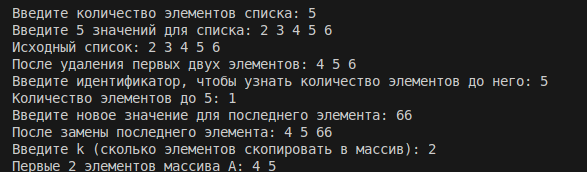
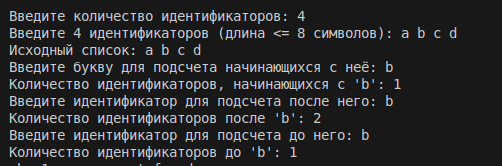
Исправил 1

diff --git a/lab1/main.cpp b/lab1/main.cpp
@@ -1,13 +1,14 @@
 #include <iostream>
+#include <string>
 #ifdef _WIN32
 #include <windows.h>
 #endif
 
 struct Node
 {
-    int id;
+    std::string id;
     Node *next;
-    Node(int val) : id(val), next(nullptr) {}
+    Node(const std::string &val) : id(val), next(nullptr) {}
 };
 
 Node *createListFromInput(int n)
@@ -15,8 +16,8 @@ Node *createListFromInput(int n)
     if (n <= 0)
         return nullptr;
 
-    std::cout << "Введите " << n << " значений для списка: ";
-    int val;
+    std::cout << "Введите " << n << " идентификаторов (длина <= 8 символов): ";
+    std::string val;
     std::cin >> val;
 
     Node *head = new Node(val);
@@ -31,38 +32,34 @@ Node *createListFromInput(int n)
     return head;
 }
 
-Node *removeFirstTwo(Node *head)
-{
-    for (int i = 0; i < 2 && head != nullptr; i++)
-    {
-        Node *temp = head;
-        head = head->next;
-        delete temp;
-    }
-    return head;
-}
-
-void replaceLast(Node *head, int newId)
-{
-    if (!head)
-        return;
-    while (head->next)
-        head = head->next;
-    head->id = newId;
-}
-
-int countElements(Node *head)
+int countStartingWith(Node *head, char letter)
 {
     int count = 0;
     while (head)
     {
-        count++;
+        if (!head->id.empty() && head->id[0] == letter)
+            count++;
         head = head->next;
     }
     return count;
 }
 
-int countBefore(Node *head, int target)
+int countAfter(Node *head, const std::string &target)
+{
+    int count = 0;
+    bool found = false;
+    while (head)
+    {
+        if (found)
+            count++;
+        if (head->id == target)
+            found = true;
+        head = head->next;
+    }
+    return found ? count : -1;
+}
+
+int countBefore(Node *head, const std::string &target)
 {
     int count = 0;
     while (head)
@@ -73,14 +70,6 @@ int countBefore(Node *head, int target)
         head = head->next;
     }
     return -1;
-}
-void copyFirstK(Node *head, int *A, int k)
-{
-    for (int i = 0; i < k && head; i++)
-    {
-        A[i] = head->id;
-        head = head->next;
-    }
 }
 
 void printList(Node *head)
@@ -110,57 +99,42 @@ int main()
     SetConsoleOutputCP(1251);
 #endif
 
-    // 1. Создание списка
     int n;
-    std::cout << "Введите количество элементов списка: ";
+    std::cout << "Введите количество идентификаторов: ";
     std::cin >> n;
     Node *head = createListFromInput(n);
 
     std::cout << "Исходный список: ";
     printList(head);
 
-    // 2. Удаление первых двух элементов
-    head = removeFirstTwo(head);
-    std::cout << "После удаления первых двух элементов: ";
-    printList(head);
+    // 3а: Количество идентификаторов, начинающихся с заданной буквы
+    char letter;
+    std::cout << "Введите букву для подсчета начинающихся с неё: ";
+    std::cin >> letter;
+    int countA = countStartingWith(head, letter);
+    std::cout << "Количество идентификаторов, начинающихся с '" << letter << "': " << countA << std::endl;
 
-    // 3 Количество элементов до заданного идентификатора
-    int target;
-    std::cout << "Введите идентификатор, чтобы узнать количество элементов до него: ";
-    std::cin >> target;
-    int before = countBefore(head, target);
-    if (before == -1)
-        std::cout << "Элемент не найден в списке." << std::endl;
+    // 3б: Количество идентификаторов, следующих после заданного
+    std::string targetAfter;
+    std::cout << "Введите идентификатор для подсчета после него: ";
+    std::cin >> targetAfter;
+    int countB = countAfter(head, targetAfter);
+    if (countB == -1)
+        std::cout << "Идентификатор '" << targetAfter << "' не найден в списке." << std::endl;
     else
-        std::cout << "Количество элементов до " << target << ": " << before << std::endl;
+        std::cout << "Количество идентификаторов после '" << targetAfter << "': " << countB << std::endl;
 
-    // 4. Замена последнего элемента
-    int newId;
-    std::cout << "Введите новое значение для последнего элемента: ";
-    std::cin >> newId;
-    replaceLast(head, newId);
-    std::cout << "После замены последнего элемента: ";
-    printList(head);
-
-    // 5. Копирование первых k элементов в массив
-    int k;
-    std::cout << "Введите k (сколько элементов скопировать в массив): ";
-    std::cin >> k;
-    int A[100];
-    int total = countElements(head);
-    if (total >= k)
-    {
-        copyFirstK(head, A, k);
-        std::cout << "Первые " << k << " элементов массива A: ";
-        for (int i = 0; i < k; i++)
-            std::cout << A[i] << " ";
-        std::cout << std::endl;
-    }
+    // 3в: Количество идентификаторов, следующих до заданного
+    std::string targetBefore;
+    std::cout << "Введите идентификатор для подсчета до него: ";
+    std::cin >> targetBefore;
+    int countC = countBefore(head, targetBefore);
+    if (countC == -1)
+        std::cout << "Идентификатор '" << targetBefore << "' не найден в списке." << std::endl;
     else
-    {
-        std::cout << "Список содержит меньше чем " << k << " элементов." << std::endl;
-    }
+        std::cout << "Количество идентификаторов до '" << targetBefore << "': " << countC << std::endl;
 
     deleteList(head);
+    system("pause");
     return 0;
 }

diff --git a/lab2/main.cpp b/lab2/main.cpp
@@ -1,0 +1,46 @@
+#include <iostream>
+#include <string>
+#include <stack>
+#ifdef _WIN32
+#include <windows.h>
+#endif
+
+using namespace std;
+int main()
+{
+#ifdef _WIN32
+    SetConsoleCP(1251);
+    SetConsoleOutputCP(1251);
+#endif
+    string expr;
+    cout << "Введите скобочное выражение (окончание пробел): ";
+    getline(cin, expr);
+
+    stack<int> stk;
+    for (int i = 0; i < expr.length(); ++i)
+    {
+        if (expr[i] == '(')
+        {
+            stk.push(i + 1);
+        }
+        else if (expr[i] == ')')
+        {
+            if (stk.empty())
+            {
+                cout << "Ошибка: лишняя закрывающая скобка на " << (i + 1) << endl;
+                return 1;
+            }
+            int open = stk.top();
+            stk.pop();
+            cout << open << " " << (i + 1) << endl;
+        }
+    }
+
+    if (!stk.empty())
+    {
+        cout << "Ошибка: лишняя открывающая скобка" << endl;
+    }
+
+    system("pause");
+    return 0;
+}
